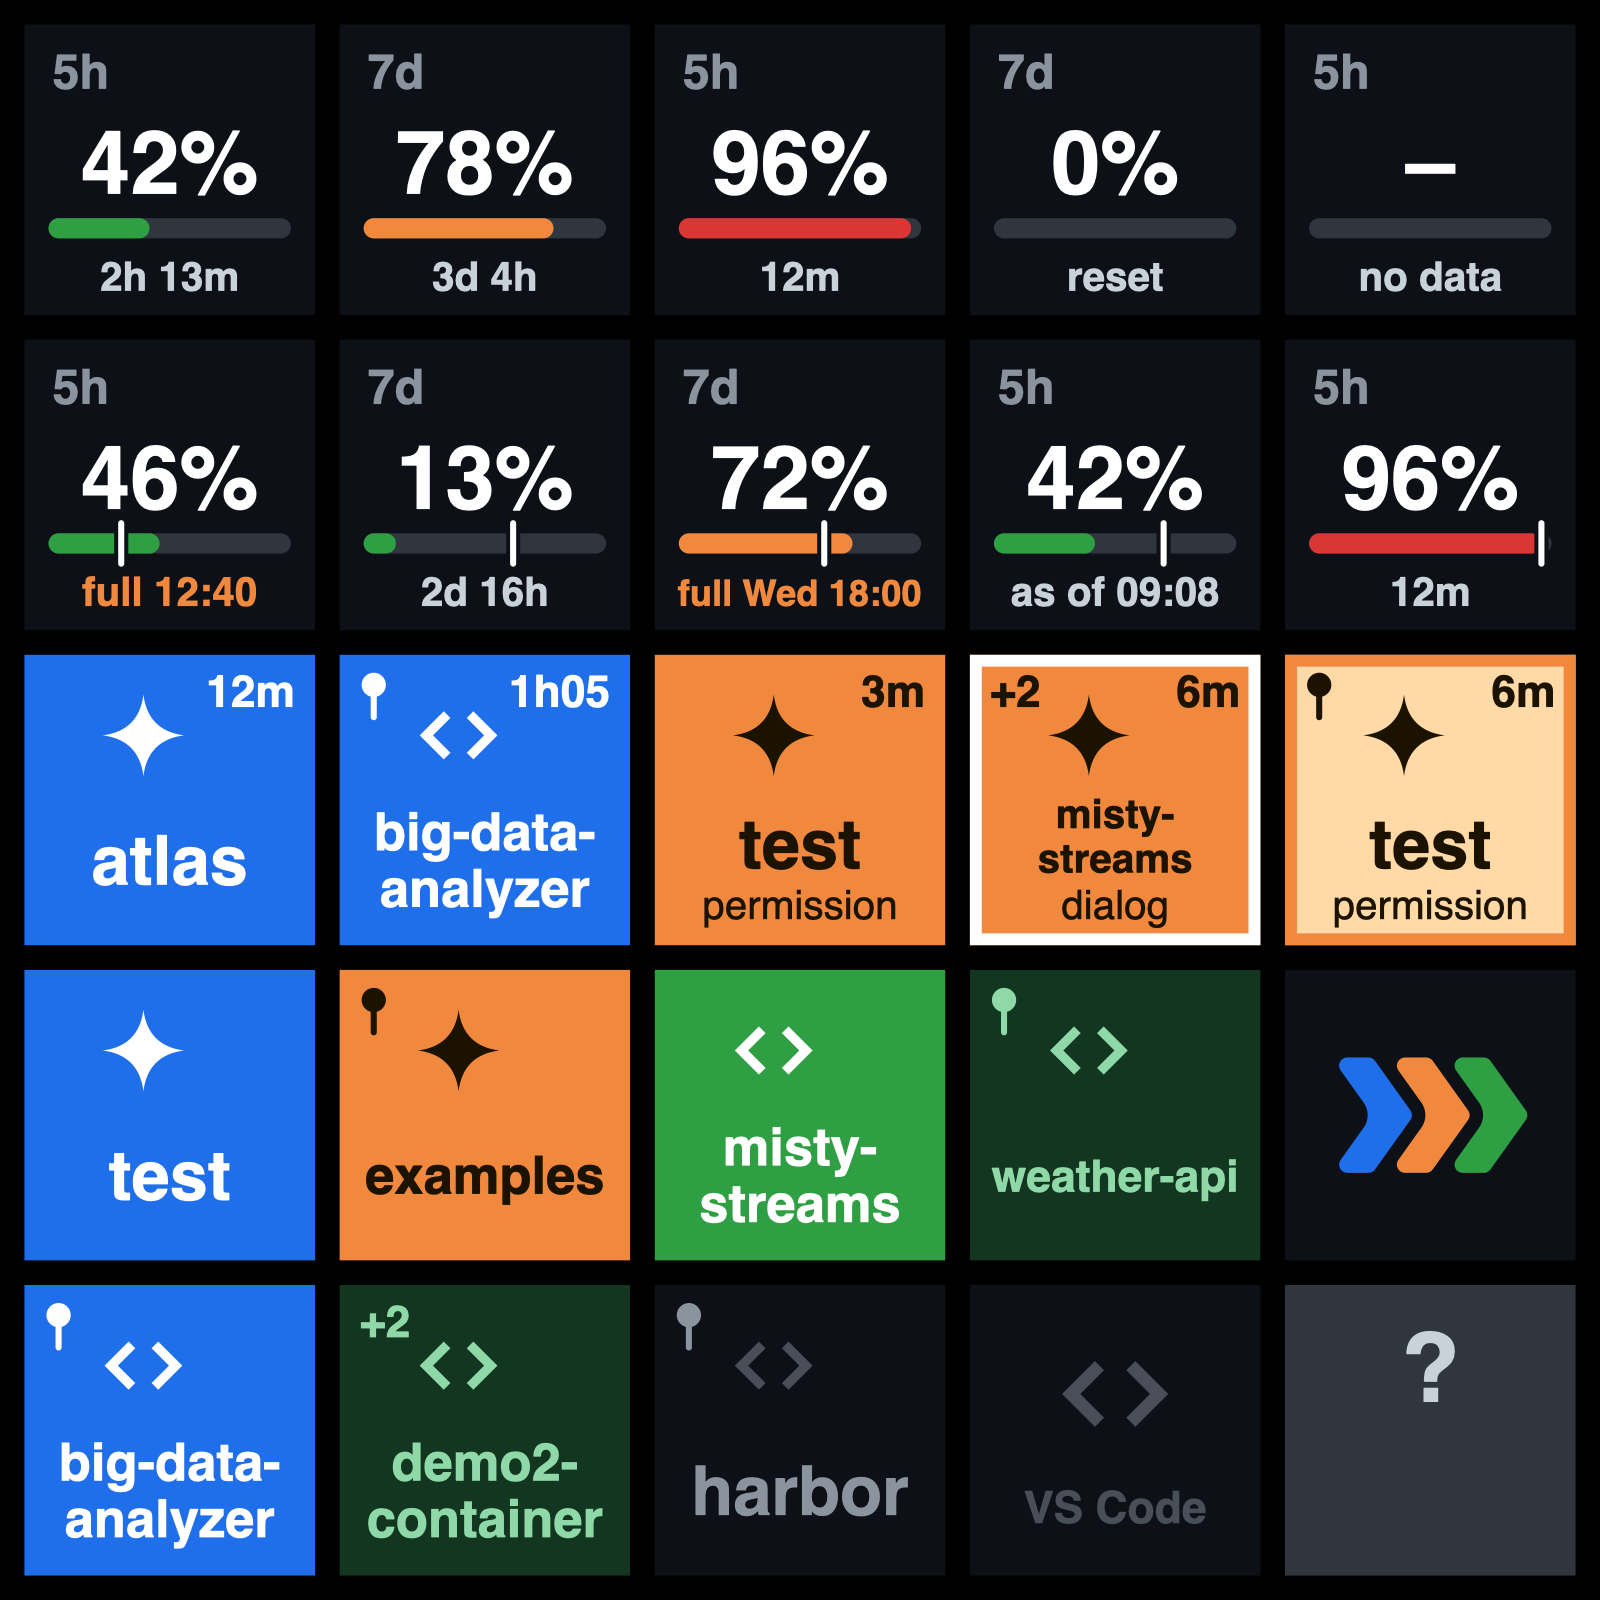
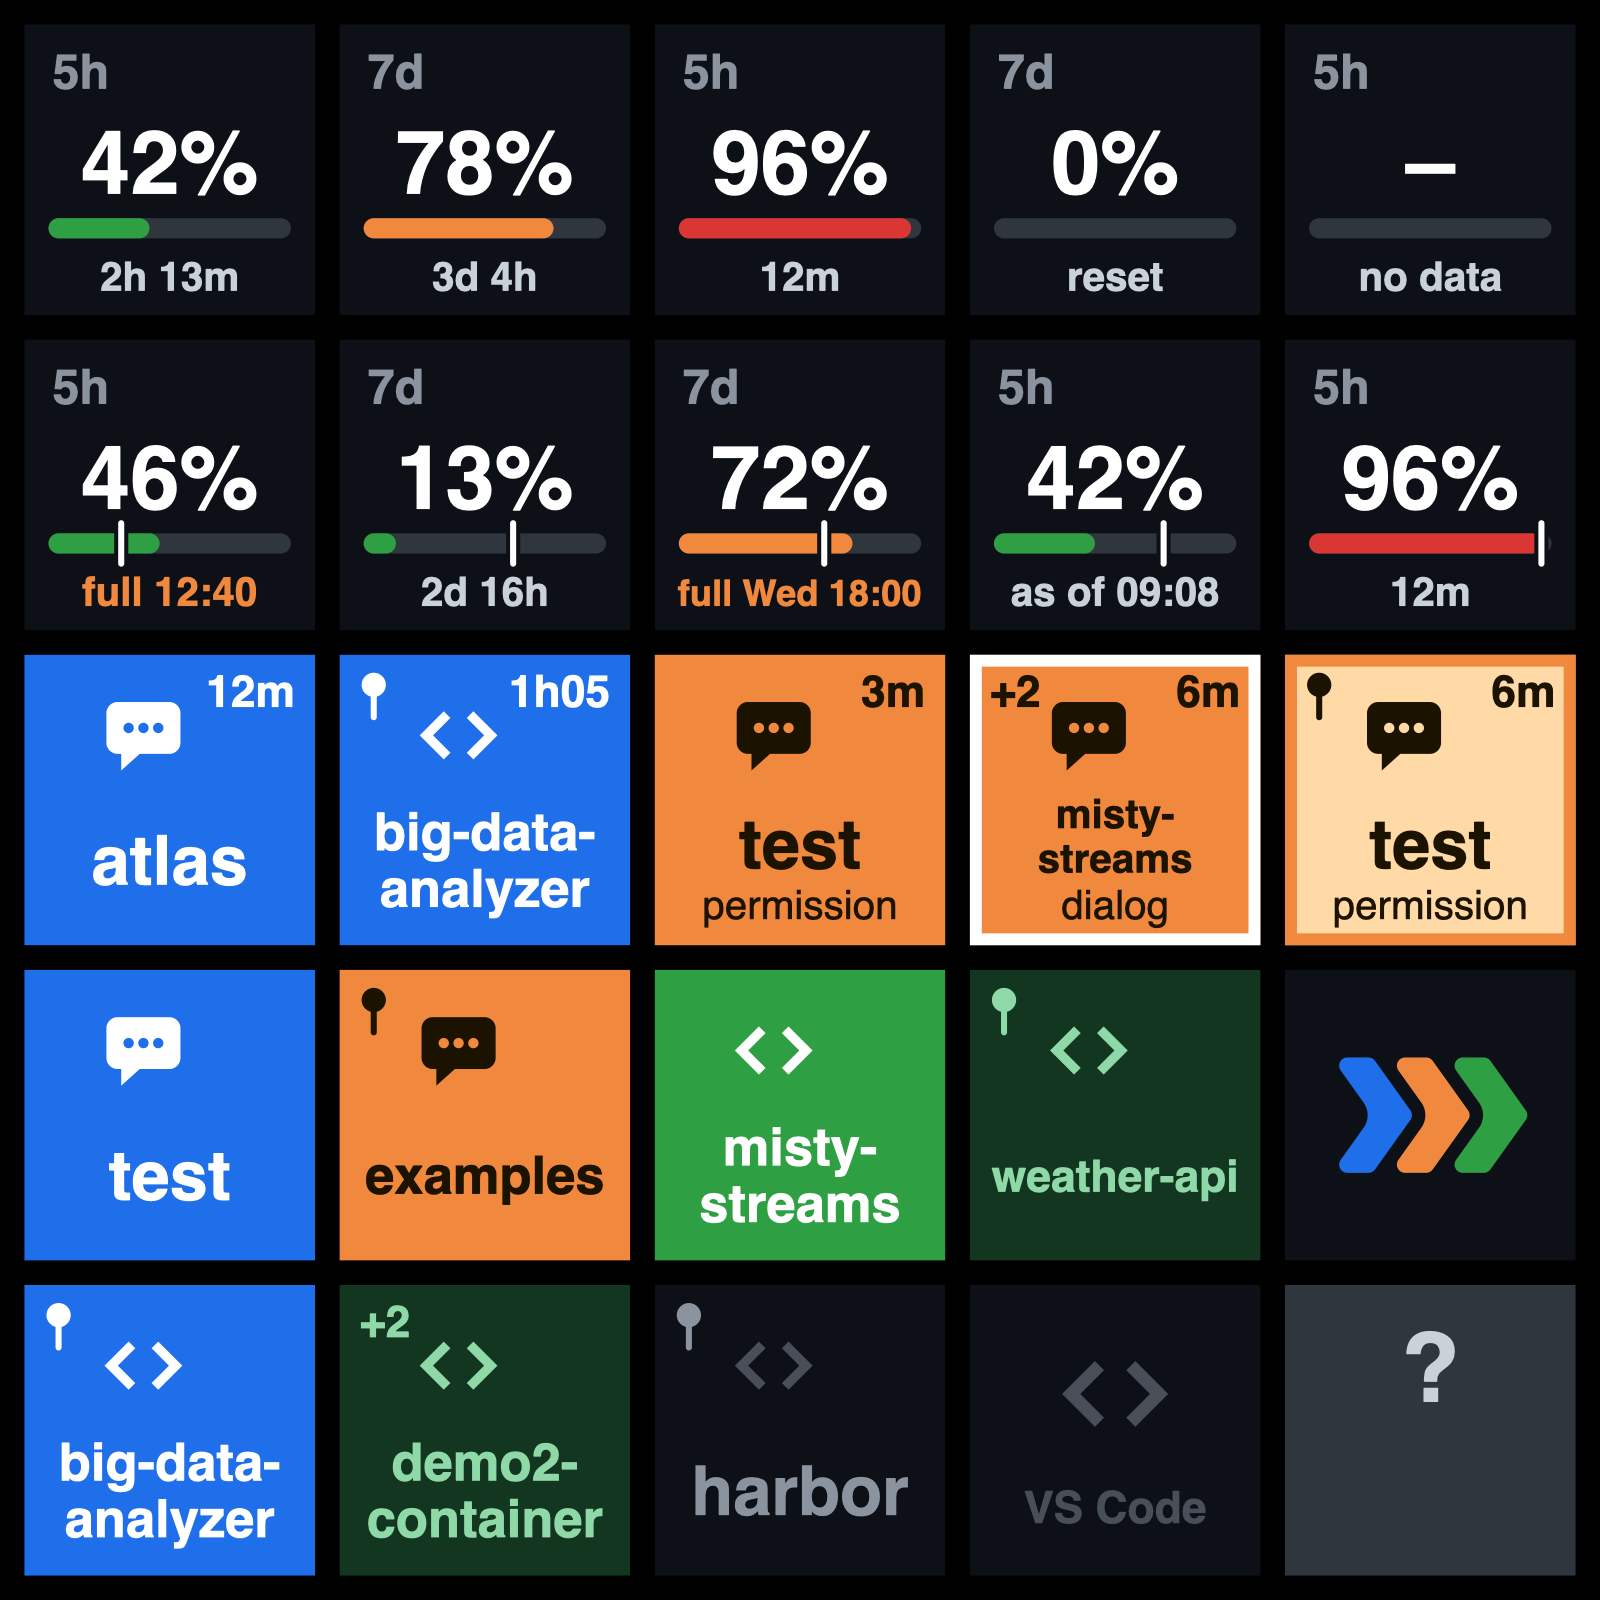
Draw a speech bubble as the plugin's own mark for the Claude app
The four-pointed star it drew before is the shape another maker of AI
tools uses as its logo. The bubble says "chat app" next to the angle
brackets that stand for the editor.

diff --git a/com.thomasalbin.code-command-center.sdPlugin/bin/core/logos.js b/com.thomasalbin.code-command-center.sdPlugin/bin/core/logos.js
@@ -11,17 +11,18 @@
  */
 
 /**
- * The marks this plugin draws by itself: a sparkle for the Claude app and a
- * pair of angle brackets for VS Code. They are plain shapes of its own. The
- * apps' logos belong to their owners and are not part of this project; where
- * an app is installed, its logo is read from the app instead (see
- * `adapters/local-logos.js`).
+ * The marks this plugin draws by itself: a speech bubble for the Claude app
+ * and a pair of angle brackets for VS Code. They are plain shapes of its own,
+ * and deliberately no star or burst, which several makers of AI tools use as
+ * their logo. The apps' logos belong to their owners and are not part of this
+ * project; where an app is installed, its logo is read from the app instead
+ * (see `adapters/local-logos.js`).
  *
  * @type {Record<App, Logo>}
  */
 export const LOGOS = {
   desktop: {
-    d: "M 12 1 C 12.8 7.5 16.5 11.2 23 12 C 16.5 12.8 12.8 16.5 12 23 C 11.2 16.5 7.5 12.8 1 12 C 7.5 11.2 11.2 7.5 12 1 Z",
+    d: "M 5 3 H 19 A 3 3 0 0 1 22 6 V 14 A 3 3 0 0 1 19 17 H 11 L 6 21.5 V 17 H 5 A 3 3 0 0 1 2 14 V 6 A 3 3 0 0 1 5 3 Z M 8 8.6 A 1.4 1.4 0 1 0 8 11.4 A 1.4 1.4 0 1 0 8 8.6 Z M 12 8.6 A 1.4 1.4 0 1 0 12 11.4 A 1.4 1.4 0 1 0 12 8.6 Z M 16 8.6 A 1.4 1.4 0 1 0 16 11.4 A 1.4 1.4 0 1 0 16 8.6 Z",
     width: 24,
     height: 24,
     rule: "nonzero",

diff --git a/README.md b/README.md
@@ -237,7 +237,7 @@ node scripts/dev/watch-listing.mjs
 
 The plugin's own logo, three arrow badges in a row that point to the right, is the property of Thomas Albin. The license of the software does not cover it, and it may not be used for anything else, changed, sold or resold: see [The logo](LICENSE.md#the-logo) in LICENSE.md.
 
-This repository contains no logo of Anthropic or Microsoft. On the keys, the plugin draws two plain marks of its own, a sparkle for the Claude app and a pair of angle brackets for VS Code, which is what the picture above shows.
+This repository contains no logo of Anthropic or Microsoft. On the keys, the plugin draws two plain marks of its own, a speech bubble for the Claude app and a pair of angle brackets for VS Code, which is what the picture above shows.
 
 On your Mac the keys can look different: where the Claude Code extension for VS Code is installed, the plugin reads Claude's logo from that extension's files, and where VS Code is installed it reads VS Code's logo from the app. It shows them on your own Stream Deck only. See [NOTICE.md](NOTICE.md).
 

diff --git a/NOTICE.md b/NOTICE.md
@@ -14,7 +14,7 @@ The Code Command Center logo, three arrow badges in a row that point to the righ
 
 ## Logos of others
 
-This repository contains no logo of any of these companies. On the keys, the plugin draws two plain marks of its own: a sparkle for the Claude app and a pair of angle brackets for VS Code.
+This repository contains no logo of any of these companies. On the keys, the plugin draws two plain marks of its own: a speech bubble for the Claude app and a pair of angle brackets for VS Code.
 
 Where the Claude Code extension for VS Code, or VS Code itself, is installed on a Mac, the plugin reads that app's logo from the app's own files on that Mac and shows it on the keys of the Stream Deck connected to it. The logos stay with their owners. They are not part of this project and are not licensed by it.
 
